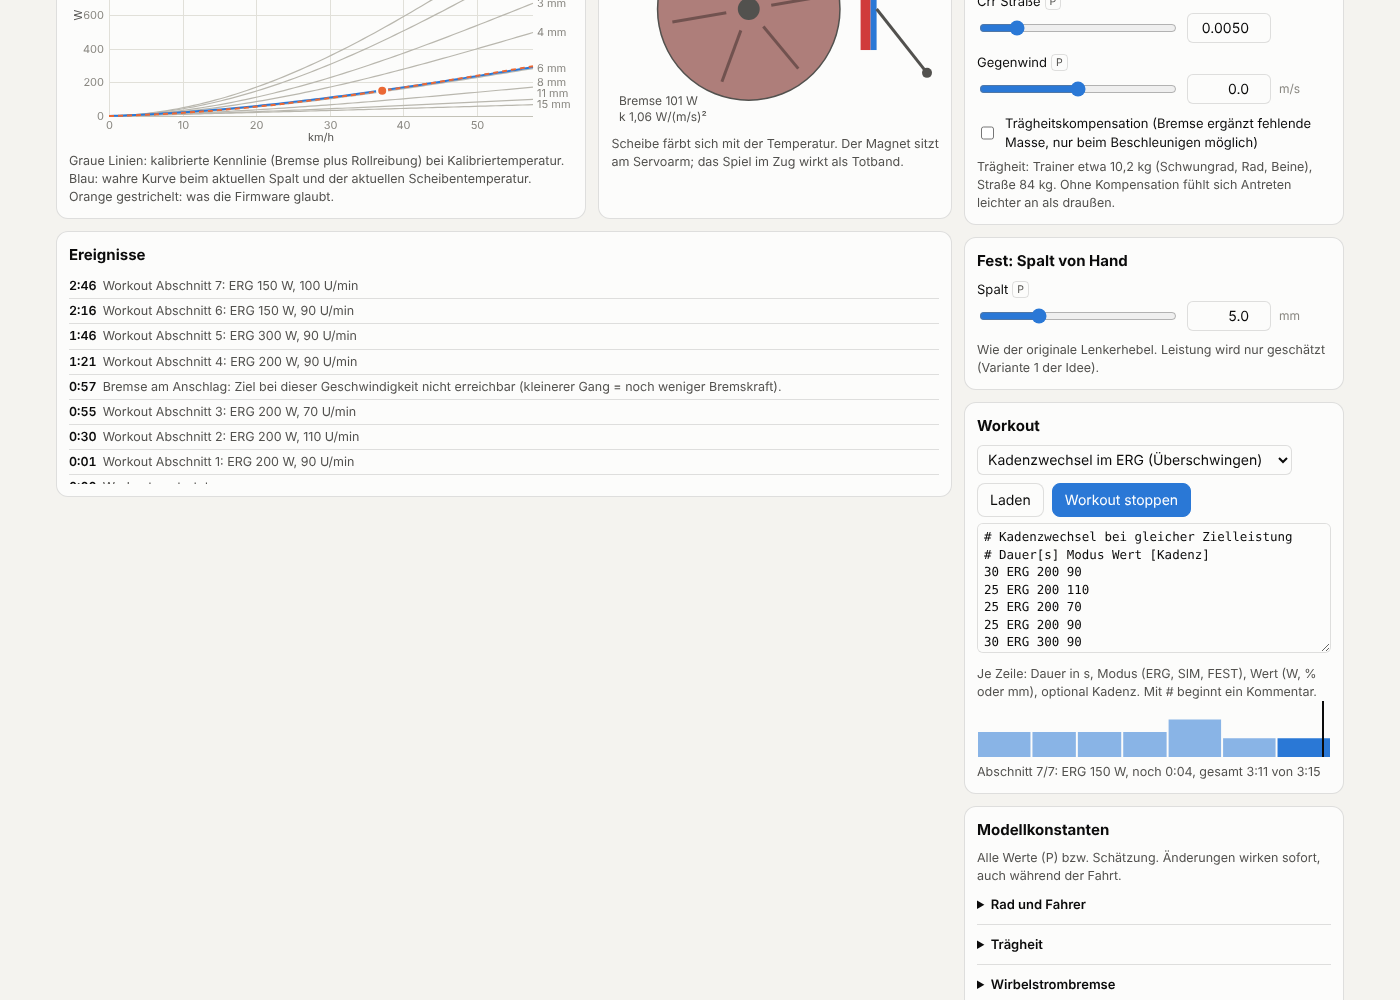
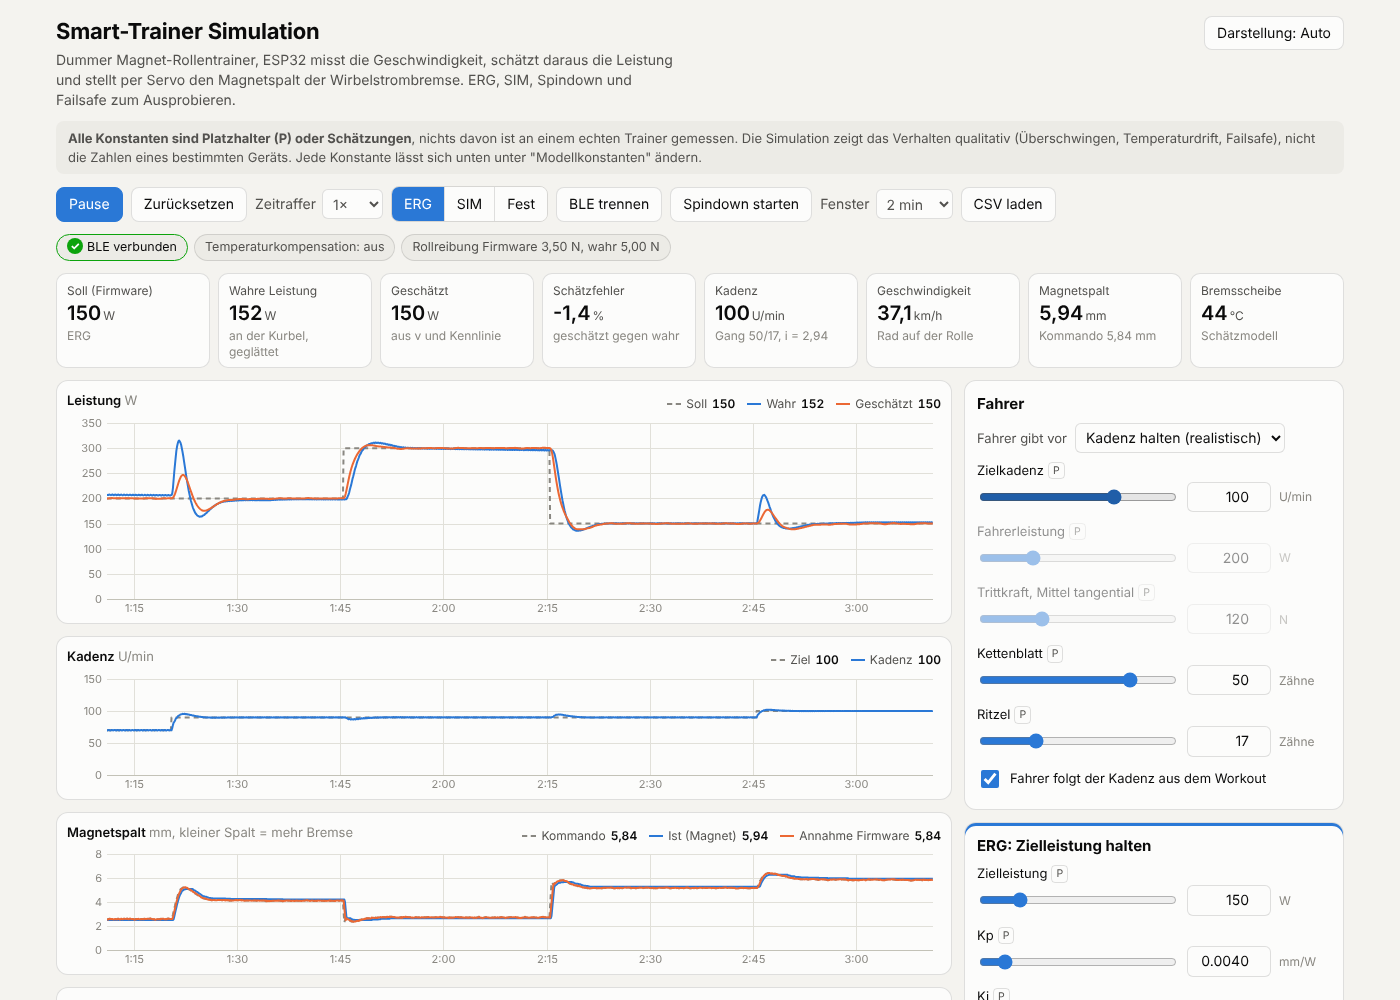
Smart-Trainer: interaktive Simulation
Claude-Session: https://claude.ai/code/session_01FgWHWihrsdXCWXeAdyvDMP

diff --git a/ideen/smart-trainer/sim/index.html b/ideen/smart-trainer/sim/index.html
@@ -104,12 +104,12 @@ select, input[type=number], textarea {
 .seg button { border: 0; border-radius: 0; background: var(--surface); }
 .seg button + button { border-left: 1px solid var(--border); }
 .seg button.on { background: var(--accent); color: var(--accent-ink); }
-.tiles { display: grid; grid-template-columns: repeat(auto-fill, minmax(118px, 1fr)); gap: 8px; margin-bottom: 12px; }
+.tiles { display: grid; grid-template-columns: repeat(auto-fit, minmax(118px, 1fr)); gap: 8px; margin-bottom: 12px; }
 .tile { background: var(--surface); border: 1px solid var(--border); border-radius: 10px; padding: 8px 10px; min-width: 0; }
 .tile .k { font-size: 12px; color: var(--ink2); white-space: nowrap; overflow: hidden; text-overflow: ellipsis; }
 .tile .v { font-size: 20px; font-weight: 600; white-space: nowrap; }
 .tile .v small { font-size: 12px; font-weight: 400; color: var(--ink2); margin-left: 2px; }
-.tile .x { font-size: 12px; color: var(--muted); white-space: nowrap; overflow: hidden; text-overflow: ellipsis; }
+.tile .x { font-size: 12px; color: var(--muted); line-height: 1.3; }
 .tile.warn { border-color: var(--warn); box-shadow: inset 4px 0 0 var(--warn); }
 .tile.crit { border-color: var(--crit); box-shadow: inset 4px 0 0 var(--crit); }
 .tile.good { box-shadow: inset 4px 0 0 var(--good); }
@@ -222,7 +222,7 @@ footer ul { padding-left: 18px; }
 
   <div class="tiles">
     <div class="tile"><div class="k">Soll (Firmware)</div><div class="v" id="tSoll">0<small>W</small></div><div class="x" id="tSollX"></div></div>
-    <div class="tile"><div class="k">Wahre Leistung</div><div class="v" id="tTrue">0<small>W</small></div><div class="x">an der Kurbel, 1 s geglättet</div></div>
+    <div class="tile"><div class="k">Wahre Leistung</div><div class="v" id="tTrue">0<small>W</small></div><div class="x">an der Kurbel, geglättet</div></div>
     <div class="tile"><div class="k">Geschätzt</div><div class="v" id="tEst">0<small>W</small></div><div class="x">aus v und Kennlinie</div></div>
     <div class="tile" id="tileErr"><div class="k">Schätzfehler</div><div class="v" id="tErr">0<small>%</small></div><div class="x">geschätzt gegen wahr</div></div>
     <div class="tile"><div class="k">Kadenz</div><div class="v" id="tCad">0<small>U/min</small></div><div class="x" id="tGear"></div></div>
@@ -255,7 +255,7 @@ footer ul { padding-left: 18px; }
       </div>
       <div class="two">
         <div class="card">
-          <h2>Kennlinienfamilie P(v) je Spalt</h2>
+          <h2>Kennlinienfamilie P(v) je Spalt <span class="u" style="font-weight:400;color:var(--muted)">W über km/h</span></h2>
           <div class="lg" id="lg-kl"></div>
           <canvas id="cv-kl" height="240"></canvas>
           <p class="info">Graue Linien: kalibrierte Kennlinie (Bremse plus Rollreibung) bei Kalibriertemperatur. Blau: wahre Kurve beim aktuellen Spalt und der aktuellen Scheibentemperatur. Orange gestrichelt: was die Firmware glaubt.</p>
@@ -291,7 +291,7 @@ footer ul { padding-left: 18px; }
         <div id="g-erg"></div>
         <label class="chk"><input type="checkbox" id="ff" checked> Vorsteuerung über die Kennlinie</label>
         <label class="chk"><input type="checkbox" id="aw" checked> Anti-Windup (Integrator stoppt am Anschlag)</label>
-        <p class="info">Regler: Spalt = Vorsteuerung minus (Kp·e + Ki·∫e), e = Soll minus Schätzung. Zum Aufziehen des Integrators: Anti-Windup aus, ERG 500 W, Kadenz 55, danach Kadenz 95.</p>
+        <p class="info">Regler: Spalt = Vorsteuerung minus (Kp·e + Ki·∫e), e = Soll minus Schätzung. Zum Aufziehen des Integrators: Anti-Windup aus, ERG 400 W, Kadenz 55 eine halbe Minute halten, danach Kadenz 95.</p>
       </div>
 
       <div class="card" id="card-SIM">
@@ -534,7 +534,7 @@ const vPerRpm = () => (cfg.zKb / cfg.zRz) * cfg.U / 60;
 function reset() {
   const v0 = cfg.riderMode === 'kadenz' ? cfg.cadTarget * vPerRpm() : 8;
   S = {
-    t: 0, v: v0, theta: 0, rI: 0, T: cfg.Tamb, Ptrue: 0, PtrueF: 0, Pb: 0, cad: 0,
+    t: 0, v: v0, theta: 0, rI: 0, T: cfg.Tamb, Ptrue: 0, Ptrue1: 0, PtrueF: 0, Pb: 0, cad: 0,
     servoQ: [], servoTgt: 0, sServo: 0, sMag: 0, rollAng: 0,
     ble: true, bleLostAt: 0, riderOff: false, spinV: null, coupled: true, acc: 0,
   };
@@ -542,7 +542,7 @@ function reset() {
     mode: app.mode, erg: cfg.erg, grade: cfg.grade, gapMan: cfg.gapMan,
     sim: { m: cfg.mRider + cfg.mBike, CwA: cfg.CwA, Crr: cfg.Crr, wind: cfg.wind },
     vf: v0, af: 0, sCmd: 0, sFw: 0, Tfw: cfg.Tcal, PbEst: 0, Pctrl: 0, PestDisp: 0,
-    I: 0, target: NaN, bleFail: false, tempFail: false, spin: null, sat: false, lastSatLog: -99,
+    I: 0, satT: 0, Pest1: 0, target: NaN, bleFail: false, tempFail: false, spin: null, sat: false, lastSatLog: -99,
     nextTick: 0, warned: false,
   };
   // Start-Spalt aus der Vorsteuerung, damit es nicht mit einem Sprung beginnt
@@ -553,7 +553,7 @@ function reset() {
   // Fahrer im Gleichgewicht starten
   S.rI = FbTrue(s0, v0, S.T) + cfg.Froll;
   const p0 = (S.rI) * v0;
-  S.PtrueF = p0; fw.PestDisp = p0; fw.Pctrl = p0;
+  S.PtrueF = S.Ptrue1 = p0; fw.PestDisp = fw.Pest1 = fw.Pctrl = p0;
   clearData();
   $('log').innerHTML = '';
   WO.run = false; WO.t = 0; WO.idx = -1; updateWoBtn();
@@ -590,7 +590,9 @@ function physStep(dt) {
   // Leistung an der Kurbel: Muskelkraft minus der Anteil, der die eigenen Beine beschleunigt
   const Fc = coupled ? Fm - cfg.mBein * a : 0;
   S.Ptrue = Fc * S.v;
-  S.PtrueF += (S.Ptrue - S.PtrueF) * dt / (cfg.tauDisp + dt);
+  const td = cfg.tauDisp / 2;
+  S.Ptrue1 += (S.Ptrue - S.Ptrue1) * dt / (td + dt);
+  S.PtrueF += (S.Ptrue1 - S.PtrueF) * dt / (td + dt);
   S.Pb = Fb * S.v;
   S.T += (S.Pb - (cfg.G0 + cfg.G1 * S.v) * (S.T - cfg.Tamb)) / cfg.Cth * dt;
   S.coupled = coupled;
@@ -638,7 +640,9 @@ function fwTick(dt) {
   fw.PbEst = FbE * fw.vf;
   const mA = mFwAssumed();
   fw.Pctrl = (FbE + cfg.FrollFw) * fw.vf + (cfg.accTerm ? mA * fw.af * fw.vf : 0);
-  fw.PestDisp += (fw.Pctrl - fw.PestDisp) * dt / (cfg.tauDisp + dt);
+  const td = cfg.tauDisp / 2;
+  fw.Pest1 += (fw.Pctrl - fw.Pest1) * dt / (td + dt);
+  fw.PestDisp += (fw.Pest1 - fw.PestDisp) * dt / (td + dt);
   // 6. Übertemperatur (nur wenn die Firmware T kennt)
   if (cfg.tempComp !== 'aus') {
     if (!fw.tempFail && fw.Tfw >= cfg.Tkrit) { fw.tempFail = true; fw.I = 0; log(`Firmware: Scheibe ${fmt(fw.Tfw)} °C über Abregelschwelle, Widerstand runter.`); }
@@ -675,7 +679,8 @@ function fwTick(dt) {
       } else fw.I = Inew;
     }
   }
-  if (satState === 'lo' && fw.sat !== 'lo' && S.t - fw.lastSatLog > 8) {
+  fw.satT = satState === 'lo' ? (fw.satT || 0) + dt : 0;
+  if (fw.satT >= 3 && fw.satT < 3 + dt * 1.5 && S.t - fw.lastSatLog > 8) {
     fw.lastSatLog = S.t;
     log('Bremse am Anschlag: Ziel bei dieser Geschwindigkeit nicht erreichbar (kleinerer Gang = noch weniger Bremskraft).');
   }
@@ -955,7 +960,10 @@ function drawPlot(name, t0, t1) {
   for (let t = Math.ceil(t0 / ts) * ts; t <= t1; t += ts) {
     const px = Math.round(X(t)) + 0.5;
     ctx.strokeStyle = COL.grid; ctx.beginPath(); ctx.moveTo(px, top); ctx.lineTo(px, top + ph); ctx.stroke();
-    ctx.fillStyle = COL.muted; ctx.fillText(fmtT(t), px, top + ph + 4);
+    const lab = fmtT(t), tw = ctx.measureText(lab).width;
+    ctx.fillStyle = COL.muted;
+    if (px + tw / 2 > w - 1) { ctx.textAlign = 'right'; ctx.fillText(lab, w - 1, top + ph + 4); ctx.textAlign = 'center'; }
+    else ctx.fillText(lab, px, top + ph + 4);
   }
   ctx.strokeStyle = COL.axis; ctx.beginPath(); ctx.moveTo(l, top + ph + 0.5); ctx.lineTo(l + pw, top + ph + 0.5); ctx.stroke();
   // Schwellen
@@ -1042,7 +1050,6 @@ function drawKl() {
     ctx.fillStyle = COL.muted; ctx.fillText(kmh, px, top + ph + 4);
   }
   ctx.fillStyle = COL.ink2; ctx.fillText('km/h', l + pw / 2, top + ph + 16);
-  ctx.save(); ctx.translate(10, top + ph / 2); ctx.rotate(-Math.PI / 2); ctx.textBaseline = 'middle'; ctx.fillText('W', 0, 0); ctx.restore();
   const curve = (fn, col, dash, lw) => {
     ctx.strokeStyle = col; ctx.lineWidth = lw; ctx.setLineDash(dash ? [5, 4] : []);
     ctx.beginPath();

diff --git a/README.md b/README.md
@@ -20,7 +20,7 @@ Budget 300 Euro, Raspberry Pi ist vorhanden. Doku auf Deutsch.
 | [Powermeter](ideen/powermeter/) | Eigener Leistungsmesser am linken Kurbelarm (DMS-Vollbrücke), sendet per BLE an Garmin/Wahoo/Zwift | Konzept, Messprinzip-Skizze, Stückliste | ca. 125 bis 325 € |
 | [Gravel-Navi](ideen/gravel-navi/) | Eigenes Fahrradnavi mit Offline-OSM-Karten im Gravel-Stil, Routing am PC mit BRouter | Konzept, Display-Mockup, Varianten A bis D | ca. 165 bis 245 € (Variante A) |
 | [WG-Energie](ideen/wg-energie/) *(Vorschlag Claude)* | Zwischenstecker an Großgeräten (Start, Zähler hängt im Keller), Home Assistant, E-Paper im Flur; Zähler-Lesekopf als Ausbau | Konzept, Dashboard-Mockup, [Simulation](ideen/wg-energie/sim/index.html), Annahme: Start mit Variante B | ca. 65 bis 180 € (B), 90 bis 250 € (A) |
-| [Smart-Trainer](ideen/smart-trainer/) *(Vorschlag Claude)* | Einfachen Magnet-Rollentrainer zum BLE-Smart-Trainer (FTMS, ERG-Modus) umbauen | Konzept, Prinzip-Skizze | ca. 60 bis 110 € |
+| [Smart-Trainer](ideen/smart-trainer/) *(Vorschlag Claude)* | Einfachen Magnet-Rollentrainer zum BLE-Smart-Trainer (FTMS, ERG-Modus) umbauen | Konzept, Prinzip-Skizze, [interaktive Simulation](ideen/smart-trainer/sim/index.html) | ca. 60 bis 110 € |
 
 ## Pflanzenautomat
 

diff --git a/ideen/smart-trainer/README.md b/ideen/smart-trainer/README.md
@@ -13,6 +13,15 @@ keinen Unterschied.
 
 ![Aufbau-Skizze](aufbau.svg)
 
+**Zum Ausprobieren:** [`sim/index.html`](sim/index.html) ist eine interaktive Simulation im Browser
+(eine Datei, ohne Installation). Fahrer mit Kadenz, Gang und Schwungmasse, Wirbelstrombremse mit
+Kennlinienfamilie über den Magnetspalt, Servo mit Totzeit und begrenzter Stellgeschwindigkeit,
+ERG mit PI-Regler und Anti-Windup, SIM mit Straßenmodell, Spindown, Failsafe bei BLE-Abbruch,
+Leistungsschätzung gegen wahre Leistung und ein einfaches Temperaturmodell der Bremsscheibe.
+Alle Konstanten sind Platzhalter (P) bzw. Schätzungen und in der Seite änderbar.
+
+![Screenshot der Simulation](sim/screenshot.png)
+
 ## Prinzip Wirbelstrombremse
 
 ![Prinzip](prinzip.svg)
